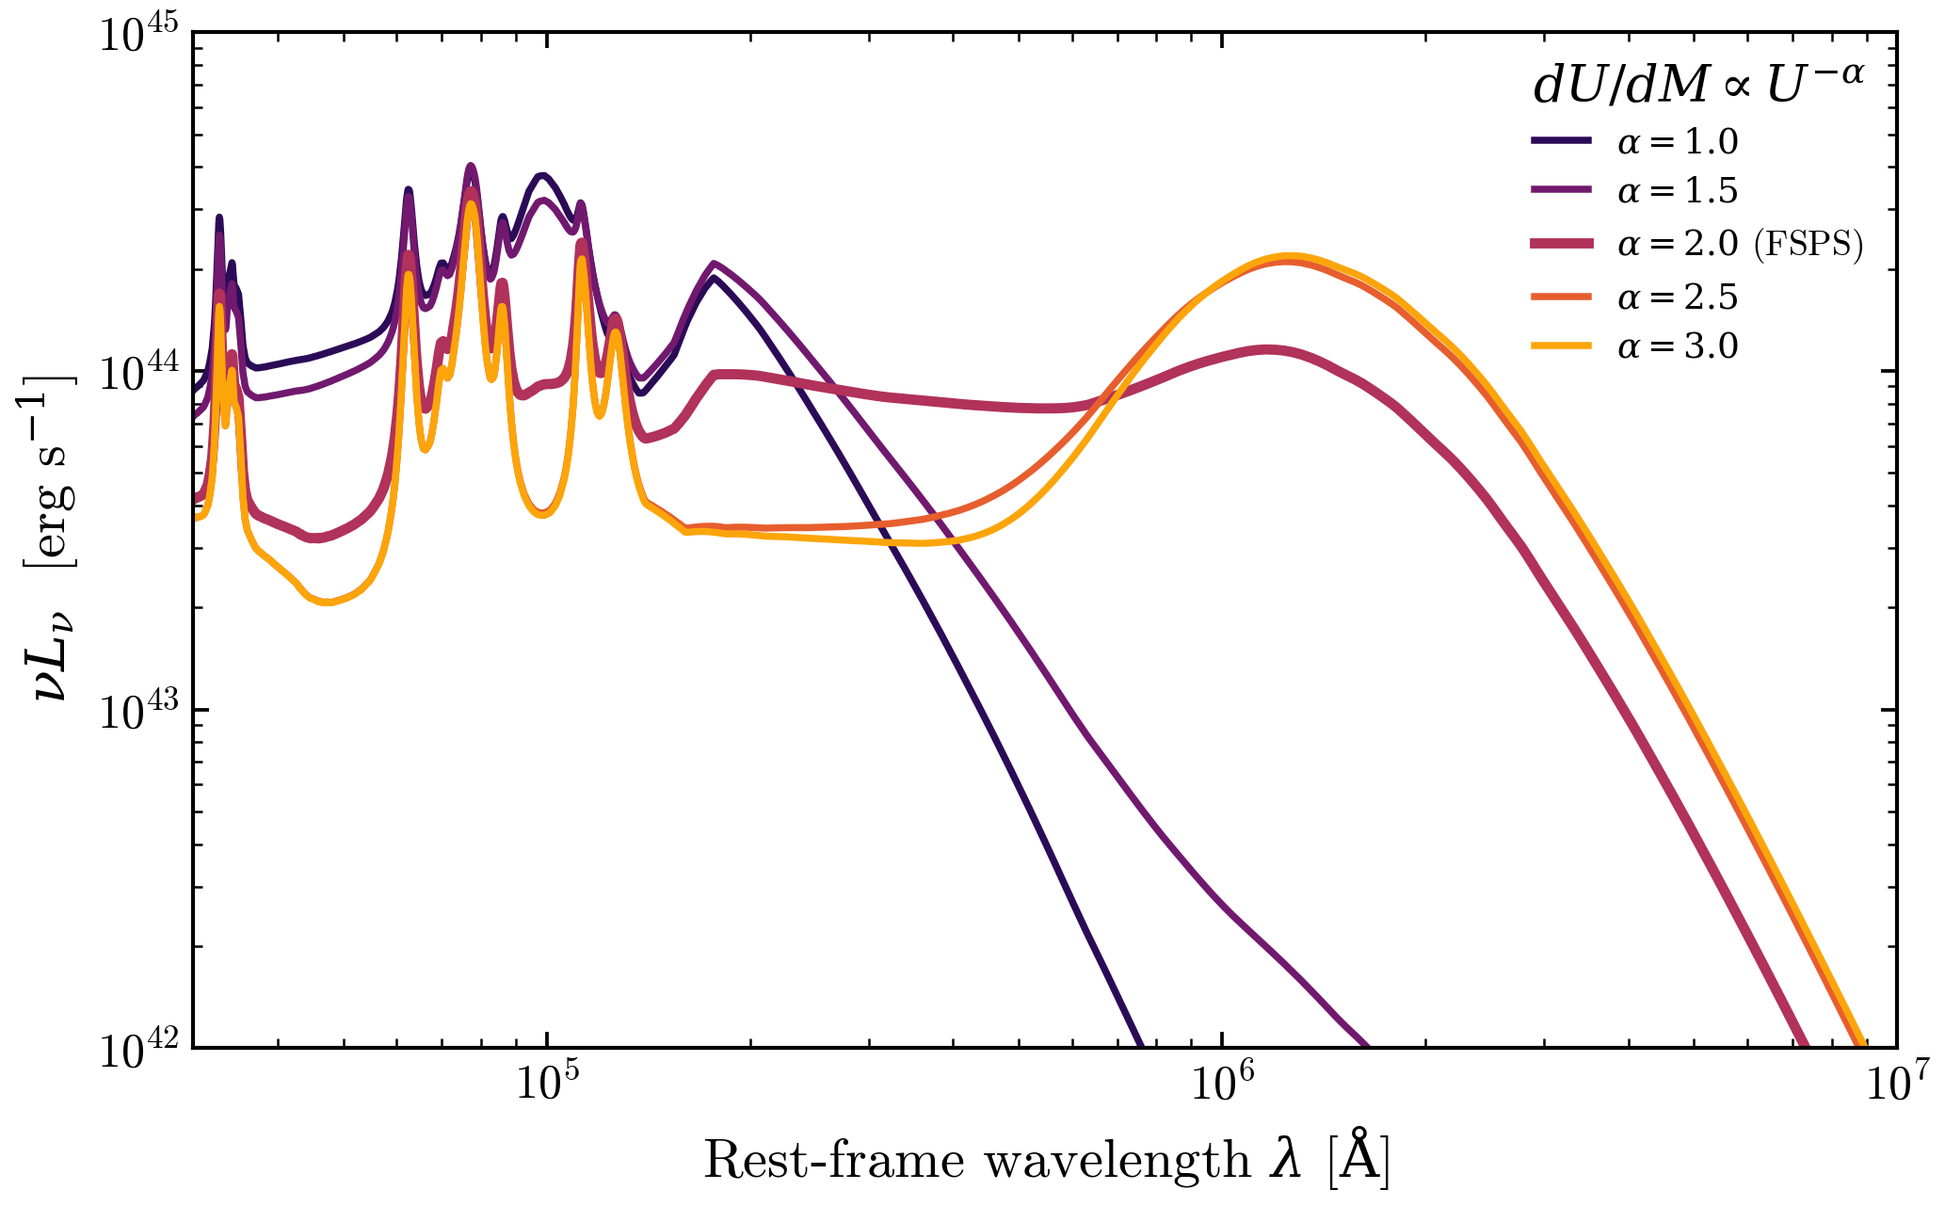
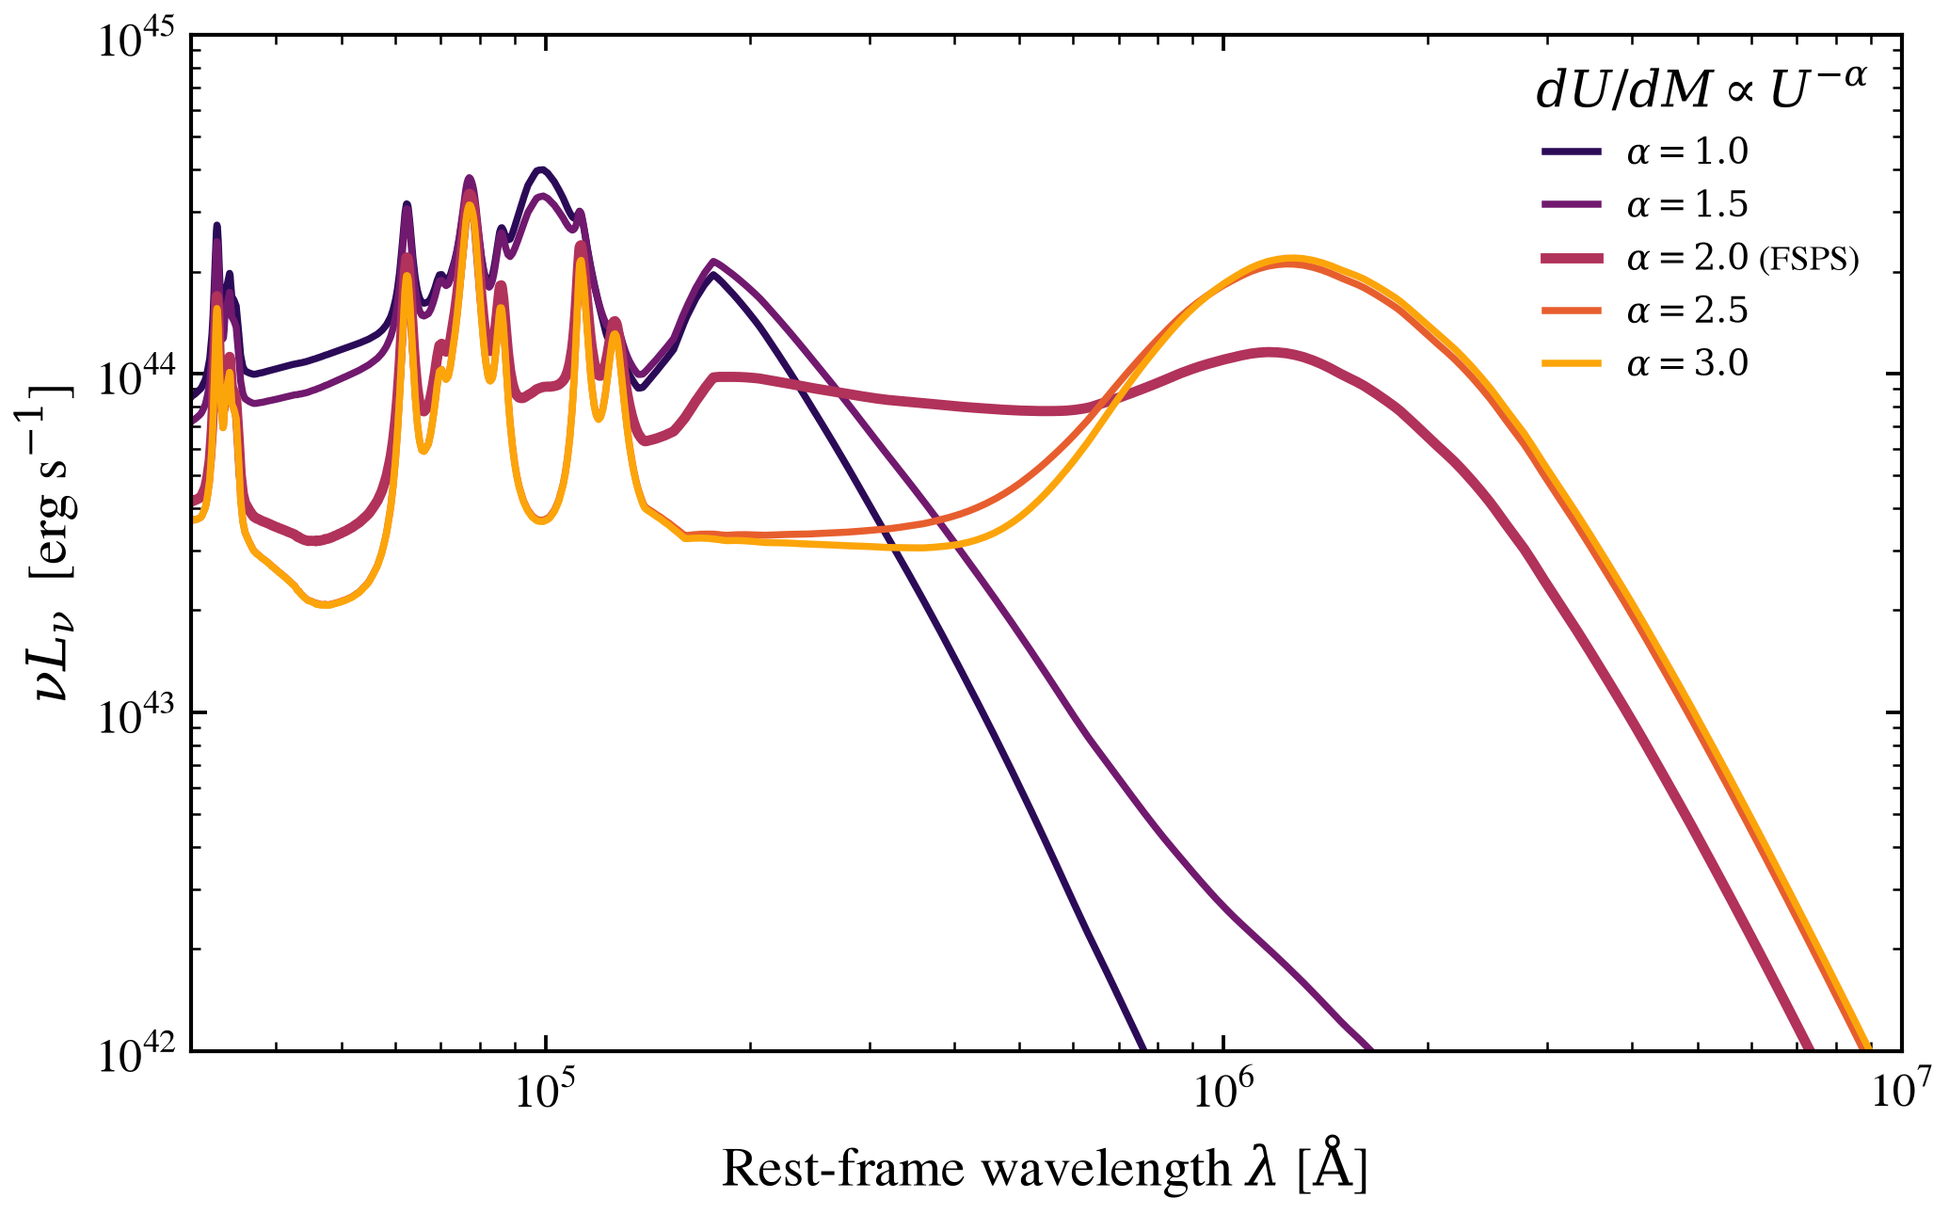
fix(dust): THEMIS alpha-axis review follow-up: build-script docstring, tolerances, alpha = 3 / high-U / off-node cells, gallery page (#2598)
The build script documents the per-composition ratio it stores and asserts a
positive alpha = 2 denominator. Registry cells compare with CIGALE at 1e-6
(nine nodes incl. alpha = 2.5, 3 and U_min = 50), the PDR weight at 1e-4, the
public band fractions at 3.5e-4 (template resampling); off-node q_hAC and alpha
cells; the CHANGELOG factors are pinned. The alpha-sweep gallery page is
regenerated on the per-composition axis.

diff --git a/tests/regression/bug/test_bug_2598_themis_alpha_per_qhac.py b/tests/regression/bug/test_bug_2598_themis_alpha_per_qhac.py
@@ -32,7 +32,7 @@ FINE = np.logspace(4, 7, 20001)
 BANDS = ((8e4, 2.4e5), (2.4e5, 7e5), (7e5, 1.6e6), (1.6e6, 5e6), (5e6, 1e7))
 
 #: (q_hAC, U_min, alpha, gamma) and the five band fractions of unit power in
-#: 1 um-1 mm from pcigale ``themis.THEMIS(...).process``.
+#: 1 um-1 mm from pcigale 2025.1 ``themis.THEMIS(...).process``.
 PUBLIC_NODES = (
     pytest.param(
         (0.02, 0.5, 1.0, 0.01),
@@ -58,7 +58,25 @@ PUBLIC_NODES = (
     ),
 )
 
-REGISTRY_NODES = ((0.02, 0.5, 1.0, 0.01), (0.17, 1.0, 1.0, 0.1), (0.40, 30.0, 1.0, 0.5))
+REGISTRY_NODES = (
+    (0.02, 0.5, 1.0, 0.01),
+    (0.17, 1.0, 1.0, 0.1),
+    (0.40, 30.0, 1.0, 0.5),
+    (0.02, 0.5, 3.0, 0.1),
+    (0.40, 30.0, 3.0, 0.5),
+    (0.02, 0.5, 2.5, 0.1),
+    (0.40, 30.0, 2.5, 0.5),
+    (0.02, 50.0, 3.0, 0.9),
+    (0.40, 50.0, 1.0, 0.9),
+)
+
+#: Band-power factor (composition-averaged ratio over per-q_hAC ratio) in
+#: 8-24, 24-70, 70-160, 160-500, 500-1000 um, to 3 significant figures.
+AVERAGED_AXIS_FACTORS = (
+    ((0.02, 0.5, 1.0, 0.01), (1.04, 1.34, 1.40, 1.40, 1.40)),
+    ((0.40, 30.0, 1.0, 0.5), (1.05, 0.808, 0.781, 0.779, 0.779)),
+    ((0.02, 50.0, 3.0, 0.9), (1.94, 0.907, 0.885, 0.885, 0.885)),
+)
 
 
 def _unit(wave, y):
@@ -131,22 +149,44 @@ def templates():
         yield {k: h[k][:] for k in h}
 
 
-@pytest.mark.parametrize("node", REGISTRY_NODES)
-def test_registry_band_powers_match_pcigale_at_alpha_1(node, templates):
-    """Registry ``themis`` band powers equal pcigale's per-q_hAC library at alpha = 1."""
-    pytest.importorskip("pcigale")
+def _registry_bands(wave, node):
     from tengri.components.dust.emission import DUST_EMISSION_MODELS
 
     q, u, a, g = node
-    wave = templates["wavelength_aa"]
     lnu = np.asarray(
         DUST_EMISSION_MODELS["themis"](
             wave, 1.0, dust_umin=u, dust_gamma_dl=g, dust_qhac=q, dust_alpha=a
         ),
         dtype=np.float64,
     )
-    got = _bands(_unit(wave, lnu * C_AA / wave**2))
-    np.testing.assert_allclose(got / _pcigale_bands(*node), 1.0, atol=2e-3)
+    return _bands(_unit(wave, lnu * C_AA / wave**2))
+
+
+@pytest.mark.parametrize("node", REGISTRY_NODES)
+def test_registry_band_powers_match_pcigale(node, templates):
+    """Registry ``themis`` band fractions equal pcigale 2025.1 to 1e-6 at alpha != 2 nodes."""
+    pytest.importorskip("pcigale")
+    got = _registry_bands(templates["wavelength_aa"], node)
+    np.testing.assert_allclose(got / _pcigale_bands(*node), 1.0, atol=1e-6)
+
+
+def test_off_node_qhac_lies_between_neighbor_nodes(templates):
+    """At alpha = 1.55 the 8-70 um fractions at q_hAC = 0.08 lie between the 0.06, 0.10 nodes."""
+    wave = templates["wavelength_aa"]
+    low, mid, high = (_registry_bands(wave, (q, 0.5, 1.55, 0.1))[:2] for q in (0.06, 0.08, 0.10))
+    assert np.all(mid > np.minimum(low, high))
+    assert np.all(mid < np.maximum(low, high))
+
+
+def test_alpha_interpolation_is_continuous(templates):
+    """The 8-70 um band fractions change by < 3 % of the 0.1-in-alpha step over delta = 1e-3."""
+    wave = templates["wavelength_aa"]
+    delta = 1e-3
+    below, above, lo, hi = (
+        _registry_bands(wave, (0.08, 0.5, a, 0.1))[:2]
+        for a in (1.55 - delta, 1.55 + delta, 1.5, 1.6)
+    )
+    assert np.all(np.abs(above - below) < 0.03 * np.abs(hi - lo))
 
 
 def test_alpha_2_slice_of_the_ratio_is_exactly_one(templates):
@@ -162,14 +202,52 @@ def test_alpha_2_slice_of_the_ratio_is_exactly_one(templates):
     assert np.array_equal(ratio[:, :, k2], np.ones_like(ratio[:, :, k2]))
 
 
-def test_ratio_is_not_the_qhac_average(templates):
-    """The alpha = 1 PDR power differs from the q_hAC-averaged-ratio power by 0.70-1.38x."""
+@pytest.fixture(scope="module")
+def averaged_axis_engine(templates, tmp_path_factory):
+    """THEMIS engine whose alpha ratio is the q_hAC mean of the stored per-q_hAC ratio."""
+    from tengri.components.dust.emission_templates import create_themis_from_grid
+
+    ratio = templates["powerlaw_alpha_ratio"].astype(np.float64)
+    averaged = np.broadcast_to(ratio.mean(axis=0, keepdims=True), ratio.shape)
+    path = tmp_path_factory.mktemp("themis_averaged") / "themis_templates.h5"
+    with h5py.File(DATA_DIR / "themis_templates.h5", "r") as src, h5py.File(path, "w") as f:
+        for key, value in templates.items():
+            data = averaged.astype(np.float32) if key == "powerlaw_alpha_ratio" else value
+            f.create_dataset(key, data=data)
+        f.attrs.update(src.attrs)
+    return create_themis_from_grid(str(path))
+
+
+@pytest.mark.parametrize(("node", "factors"), AVERAGED_AXIS_FACTORS)
+def test_averaged_axis_band_power_factors(node, factors, templates, averaged_axis_engine):
+    """The q_hAC-averaged alpha axis misses the per-q_hAC band powers by the pinned factors."""
+    from tengri.components.dust.emission_templates import create_themis_from_grid
+
+    q, u, a, g = node
+    wave = templates["wavelength_aa"]
+    kwargs = {"dust_umin": u, "dust_gamma_dl": g, "dust_qhac": q, "dust_alpha": a}
+    per_q = create_themis_from_grid(str(DATA_DIR / "themis_templates.h5"))
+
+    def band_fractions(engine):
+        lnu = np.asarray(engine(wave, 1.0, **kwargs), dtype=np.float64)
+        return _bands(_unit(wave, lnu * C_AA / wave**2))
+
+    np.testing.assert_allclose(
+        band_fractions(averaged_axis_engine) / band_fractions(per_q), factors, rtol=6e-3
+    )
+
+
+@pytest.mark.parametrize(("q", "u", "weight"), ((0.02, 0.5, 0.71), (0.40, 30.0, 1.28)))
+def test_averaged_axis_pdr_power_weight_factor(q, u, weight, templates):
+    """The averaged alpha = 1 axis scales the PDR power weight by the pinned factor."""
     ratio = templates["powerlaw_alpha_ratio"].astype(np.float64)[:, :, 0, :]
     nu = C_AA / templates["wavelength_aa"]
-    per_q = np.trapezoid(templates["powerlaw"] * ratio, nu, axis=-1)
-    averaged = np.trapezoid(templates["powerlaw"] * ratio.mean(axis=0)[None], nu, axis=-1)
-    assert (averaged / per_q).min() < 0.75
-    assert (averaged / per_q).max() > 1.25
+    iq = int(np.argmin(np.abs(templates["qhac_grid"] * 2.2 / 100.0 - q)))
+    iu = int(np.argmin(np.abs(templates["umin_grid"] - u)))
+    plaw = templates["powerlaw"][iq, iu]
+    per_q = np.trapezoid(plaw * ratio[iq, iu], nu)
+    averaged = np.trapezoid(plaw * ratio.mean(axis=0)[iu], nu)
+    assert averaged / per_q == pytest.approx(weight, rel=6e-3)
 
 
 @pytest.mark.parametrize(
@@ -177,7 +255,7 @@ def test_ratio_is_not_the_qhac_average(templates):
     [(0.02, 0.5, 1.0), (0.17, 1.0, 1.0), (0.40, 30.0, 1.0), (0.02, 0.5, 3.0), (0.40, 30.0, 3.0)],
 )
 def test_pdr_power_weight_matches_pcigale(q, u, a, templates):
-    """PDR power over single-U power equals pcigale's database ratio at fixed U_min."""
+    """PDR power over single-U power equals pcigale 2025.1's database ratio to 1e-4."""
     pytest.importorskip("pcigale")
     from pcigale.data import SimpleDatabase
 
@@ -192,22 +270,26 @@ def test_pdr_power_weight_matches_pcigale(q, u, a, templates):
         single = db.get(qhac=q, umin=u, umax=u, alpha=1.0)
         pdr = db.get(qhac=q, umin=u, umax=1e7, alpha=a)
     reference = np.trapezoid(pdr.spec, pdr.wl) / np.trapezoid(single.spec, single.wl)
-    assert weight / reference == pytest.approx(1.0, abs=2e-3)
+    assert weight / reference == pytest.approx(1.0, abs=1e-4)
 
 
 @pytest.mark.parametrize(("node", "expected"), PUBLIC_NODES)
 def test_public_sed_dust_ir_band_fractions_literals(node, expected):
-    """``SEDModel.build`` THEMIS ``sed_dust_ir`` band fractions equal pcigale's literals."""
-    np.testing.assert_allclose(_public_band_fractions(node), expected, rtol=3e-3, atol=0.0)
+    """``SEDModel.build`` band fractions equal pcigale 2025.1 literals to 3.5e-4 (absolute).
+
+    The measured maximum is 1.1e-4; it is set by linear interpolation of the
+    576-point template onto the 6570-point model wavelength grid.
+    """
+    np.testing.assert_allclose(_public_band_fractions(node), expected, rtol=0.0, atol=3.5e-4)
 
 
 @pytest.mark.parametrize(("node", "expected"), PUBLIC_NODES)
 def test_public_sed_dust_ir_band_fractions_live_pcigale(node, expected):
-    """``SEDModel.build`` THEMIS ``sed_dust_ir`` band fractions equal a live pcigale run."""
+    """``SEDModel.build`` band fractions equal a live pcigale run to 3.5e-4 (absolute)."""
     pytest.importorskip("pcigale")
     live = _pcigale_bands(*node)
     np.testing.assert_allclose(live, expected, rtol=1e-6)
-    np.testing.assert_allclose(_public_band_fractions(node) / live, 1.0, atol=3e-3)
+    np.testing.assert_allclose(_public_band_fractions(node), live, rtol=0.0, atol=3.5e-4)
 
 
 @pytest.mark.parametrize(("node", "expected"), PUBLIC_NODES)

diff --git a/scripts/build_themis_alpha_axis.py b/scripts/build_themis_alpha_axis.py
@@ -1,36 +1,31 @@
 #!/usr/bin/env python3
-r"""Add a radiation-field-slope (alpha) axis to the FSPS-built THEMIS grid.
+r"""Tabulate the THEMIS radiation-field-slope (alpha) axis per q_hAC composition.
 
-tengri ships the FSPS/DustEM-built THEMIS templates (``build_themis_from_fsps``,
-PR #574): a single-U component and a power-law (PDR) component at the Jones+2017
-default ``alpha = 2.0`` only. CIGALE additionally exposes ``alpha`` (the slope of
-``dU/dM \propto U^{-alpha}``) over [1.0, 3.0]. This script augments the shipped
-FSPS grid with an ``alpha`` axis WITHOUT changing the ``alpha = 2`` behavior:
+The U^-alpha (PDR) component of the THEMIS dust model (Jones et al. 2017,
+A&A 602, A46) is the integral over the starlight intensity U of the single-U
+emission of one grain mixture, with ``dU/dM ~ U^-alpha`` between ``U_min`` and
+``U_max = 1e7`` (Draine & Li 2007, ApJ 657, 810, Eq. 23). The mixture is set by
+q_hAC, so the spectrum at ``alpha != 2`` depends on q_hAC and alpha jointly.
 
-    powerlaw_alpha[q, u, k] = FSPS_powerlaw[q, u] * R(u, alpha_k)
+The script reads the PDR spectra ``S(q, u, alpha)`` of the CIGALE THEMIS database
+(``pcigale.data.SimpleDatabase('themis')``, ``umax = 1e7``) on the nodes of
+``data/themis_templates.h5`` and stores the per-composition ratio
 
-    R(u, alpha) = < CIG_pa[:, u, alpha] / CIG_pa[:, u, alpha2] >_qhac
+    R(q, u, alpha) = S(q, u, alpha) / S(q, u, alpha = 2)
 
-where ``CIG_pa`` is CIGALE's DustEM power-law (``model_minmax``) grid pulled from
-``pcigale.data.SimpleDatabase('themis')`` (``umax = 1e7``). The ratio ``R`` is
-the *relative* alpha-dependence of the PDR spectrum at fixed ``U_min``,
-qhac-averaged (alpha reshapes the U distribution, which is essentially separable
-from the a-C(:H) grain fraction). At ``alpha = 2`` the ratio is identically 1,
-so ``powerlaw_alpha[..., alpha2, :] == FSPS_powerlaw`` bit-for-bit — the default
-SED, energy balance, and the gamma-warming calibration are unchanged.
+as ``powerlaw_alpha_ratio`` with shape ``(n_qhac, n_umin, n_alpha, n_wave)``
+(float32, gzip) beside ``alpha_grid``. The loader forms
+``powerlaw_alpha[q, u, k] = powerlaw[q, u] * R[q, u, k]``, so the ``alpha = 2``
+slice of ``R`` is exactly 1 and the ``alpha = 2`` template, energy balance and
+gamma-warming calibration are those of the stored ``powerlaw`` dataset.
 
-This keeps the scientifically-preferred FSPS normalization as the anchor while
-making ``dust_alpha`` a faithful, CIGALE-derived free parameter.
-
-Requirements: pcigale installed (tengri's main ``.venv`` has it). The FSPS
-``data/themis_templates.h5`` must already exist (``build_themis_from_fsps.py``).
-Output: rewrites ``data/themis_templates.h5`` in place, adding ``alpha_grid``
-and ``powerlaw_alpha`` (idempotent — single_u/powerlaw are read back unchanged).
+Requirements: pcigale importable (tengri's main ``.venv``) and an existing
+``data/themis_templates.h5`` holding ``single_u``, ``powerlaw``, ``qhac_grid``,
+``umin_grid`` and ``wavelength_aa``. The file is rewritten in place.
 
 Usage
 -----
-    PYTHONPATH=. .venv/bin/python \
-        scripts/build_themis_alpha_axis.py
+    PYTHONPATH=. .venv/bin/python scripts/build_themis_alpha_axis.py
 """
 
 from __future__ import annotations
@@ -89,22 +84,20 @@ def main() -> int:
                     m = db.get(qhac=float(q), umin=float(u), umax=UMAX_POWERLAW, alpha=float(a))
                     cig_pa[ci, ui, ki] = np.array(m.spec, dtype=np.float64)
 
-    # Relative alpha-dependence at fixed (q_hAC, U_min), anchored at alpha=2 (ratio=1).
-    # Per-q_hAC: alpha reshapes the U distribution of each grain composition separately
-    # (Jones et al. 2017 Eqs. 5-8, Draine & Li 2007 Eq. 23). ratio[q, u, alpha, wave].
+    # R(q, u, alpha) = S(q, u, alpha) / S(q, u, alpha=2): alpha reshapes the U
+    # distribution of each grain composition separately.
     i_a2 = int(np.argmin(np.abs(ALPHA_GRID - 2.0)))
-    denom = cig_pa[:, :, i_a2, :]  # (cq, u, wave)
-    denom_safe = np.where(np.abs(denom) > 0, denom, 1.0)
-    ratio_per_q = cig_pa / denom_safe[:, :, None, :]  # (cq, u, alpha, wave)
-    ratio = ratio_per_q  # Keep per-q: (cq, u, alpha, wave), R(q, u, alpha)
-    ratio[:, :, i_a2, :] = 1.0  # exact anchor at alpha=2
+    denom = cig_pa[:, :, i_a2, :]  # (n_q, n_u, n_wave)
+    assert np.all(denom > 0.0), (
+        "CIGALE THEMIS alpha=2 spectra must be strictly positive: "
+        f"{int(np.sum(denom <= 0.0))} non-positive entries"
+    )
+    ratio = np.divide(cig_pa, denom[:, :, None, :])
+    ratio = np.where(
+        (np.arange(n_alpha) == i_a2)[None, None, :, None], 1.0, ratio
+    )  # exact anchor at alpha = 2
+    assert np.array_equal(ratio[:, :, i_a2, :], np.ones_like(denom))
 
-    # Assert that α=2 slice is exactly 1 and powerlaw_alpha[:,:,k2] == powerlaw
-    assert np.allclose(ratio[:, :, i_a2, :], 1.0), "alpha=2 ratio must be 1.0"
-
-    # Store the per-q ratio R(q, umin, alpha, wave). The loader
-    # reconstructs powerlaw_alpha = powerlaw[:, :, None, :] * R[q, :, :, :].
-    # This expands from ~3 MB to ~20 MB but captures the full physics.
     ratio_f32 = ratio.astype(np.float32)
 
     with h5py.File(fsps_path, "w") as f:

diff --git a/docs/auto_examples/dust_emission/plot_themis_alpha_sweep.py b/docs/auto_examples/dust_emission/plot_themis_alpha_sweep.py
@@ -9,11 +9,12 @@ contributes relative to the cold diffuse component: a *smaller* alpha puts more
 mass at high :math:`U`, shifting the FIR peak blueward and filling in the
 mid-IR.
 
-tengri ships the FSPS/DustEM THEMIS templates (alpha=2.0); the alpha axis is
-added by re-shaping them with CIGALE's DustEM alpha grid, anchored so that
-``alpha = 2.0`` reproduces the FSPS template exactly
-(``scripts/build_themis_alpha_axis.py``). This sweeps alpha at fixed grain
-composition and radiation-field minimum.
+tengri ships the FSPS/DustEM THEMIS templates at the default ``alpha = 2.0``
+and tabulates the ``U^-alpha`` component for ``alpha`` from 1.0 to 3.0 separately
+for each a-C(:H) grain composition (``qhac``), from the CIGALE THEMIS database
+(Jones et al. 2017; Draine & Li 2007, Eq. 23); ``alpha = 2.0`` is the FSPS
+template exactly (``scripts/build_themis_alpha_axis.py``). This sweeps alpha at
+fixed grain composition and radiation-field minimum.
 """
 
 import os

diff --git a/examples/dust_emission/plot_themis_alpha_sweep.py b/examples/dust_emission/plot_themis_alpha_sweep.py
@@ -9,11 +9,12 @@ contributes relative to the cold diffuse component: a *smaller* alpha puts more
 mass at high :math:`U`, shifting the FIR peak blueward and filling in the
 mid-IR.
 
-tengri ships the FSPS/DustEM THEMIS templates (alpha=2.0); the alpha axis is
-added by re-shaping them with CIGALE's DustEM alpha grid, anchored so that
-``alpha = 2.0`` reproduces the FSPS template exactly
-(``scripts/build_themis_alpha_axis.py``). This sweeps alpha at fixed grain
-composition and radiation-field minimum.
+tengri ships the FSPS/DustEM THEMIS templates at the default ``alpha = 2.0``
+and tabulates the ``U^-alpha`` component for ``alpha`` from 1.0 to 3.0 separately
+for each a-C(:H) grain composition (``qhac``), from the CIGALE THEMIS database
+(Jones et al. 2017; Draine & Li 2007, Eq. 23); ``alpha = 2.0`` is the FSPS
+template exactly (``scripts/build_themis_alpha_axis.py``). This sweeps alpha at
+fixed grain composition and radiation-field minimum.
 """
 
 import os

diff --git a/CHANGELOG.md b/CHANGELOG.md
@@ -3,7 +3,7 @@
 ### Fixed
 
 - Spectroscopy-only models under `SpectrumPrecomp` redden the same young stars as the exact screen: the spectrum LUT published its own, 2.3× sharper birth-cloud age indicator, which put the LUT spectrum of a 1–100 Myr population up to 21 % above the exact path at rest 1600 Å; the LUT agrees with the exact path to the documented two-component residual (#2591).
-- The THEMIS `U^−α` dust-emission component for α ≠ 2 is tabulated per q_hAC grain composition (Jones et al. 2017; Draine & Li 2007 Eq. 23), so the power-law axis follows the carbon-grain fraction; relative to the composition-averaged axis, band power at α = 1 changes by up to 1.43x and the PDR power weight by 0.71-1.28x, and α = 2 is unchanged. (#2598)
+- The THEMIS `U^−α` dust-emission component for α ≠ 2 is tabulated per q_hAC grain composition (Jones et al. 2017; Draine & Li 2007 Eq. 23), so the power-law axis follows the carbon-grain fraction. Relative to the composition-averaged axis, band power at α = 1 changes by 1.40× (24–1000 µm at q_hAC 0.02, U_min 0.5) and 0.78× (q_hAC 0.40, U_min 30), the 8–24 µm band at α = 3 by 1.94× (q_hAC 0.02, U_min 50, γ 0.9), and the PDR power weight by 0.71–1.28×; α = 2 is unchanged. (#2598)
 
 - Direct calls to the composable AGN runner (`compose_l_nu`) overflowed float32: the reference-L_bol factoring (#1206) lived only in `AGNSEDComponent`, so the runner exponentiated the true `agn_log_lbol` inside the blocks. The factoring lives in `components/agn/_lbol_reference.py` and is called by the runner and by the component's monolithic branch, so the direct call and the `SEDModel` path share it. float64 outputs on the `SEDModel` path are bit-identical (measured). (#2321)
 

diff --git a/docs/auto_examples/dust_emission/plot_themis_alpha_sweep.rst b/docs/auto_examples/dust_emission/plot_themis_alpha_sweep.rst
@@ -28,13 +28,14 @@ contributes relative to the cold diffuse component: a *smaller* alpha puts more
 mass at high :math:`U`, shifting the FIR peak blueward and filling in the
 mid-IR.
 
-tengri ships the FSPS/DustEM THEMIS templates (alpha=2.0); the alpha axis is
-added by re-shaping them with CIGALE's DustEM alpha grid, anchored so that
-``alpha = 2.0`` reproduces the FSPS template exactly
-(``scripts/build_themis_alpha_axis.py``). This sweeps alpha at fixed grain
-composition and radiation-field minimum.
+tengri ships the FSPS/DustEM THEMIS templates at the default ``alpha = 2.0``
+and tabulates the ``U^-alpha`` component for ``alpha`` from 1.0 to 3.0 separately
+for each a-C(:H) grain composition (``qhac``), from the CIGALE THEMIS database
+(Jones et al. 2017; Draine & Li 2007, Eq. 23); ``alpha = 2.0`` is the FSPS
+template exactly (``scripts/build_themis_alpha_axis.py``). This sweeps alpha at
+fixed grain composition and radiation-field minimum.
 
-.. GENERATED FROM PYTHON SOURCE LINES 18-87
+.. GENERATED FROM PYTHON SOURCE LINES 19-88
 
 
 
@@ -122,7 +123,7 @@ composition and radiation-field minimum.
 
 .. rst-class:: sphx-glr-timing
 
-   **Total running time of the script:** (0 minutes 4.042 seconds)
+   **Total running time of the script:** (0 minutes 8.018 seconds)
 
 
 .. _sphx_glr_download_auto_examples_dust_emission_plot_themis_alpha_sweep.py:
